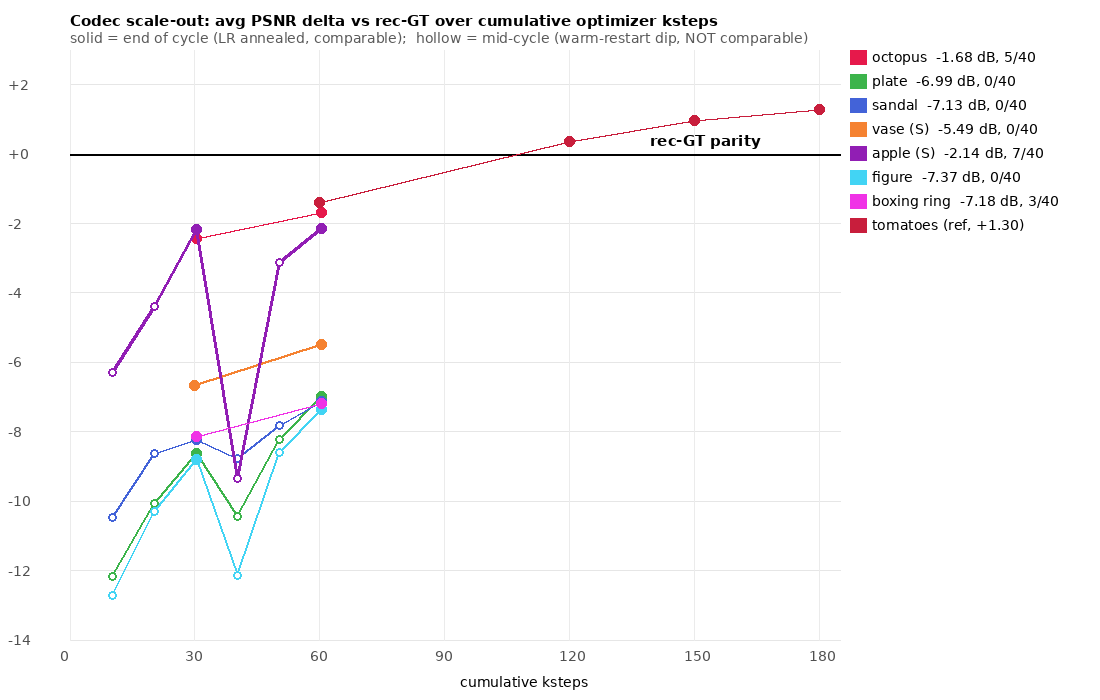
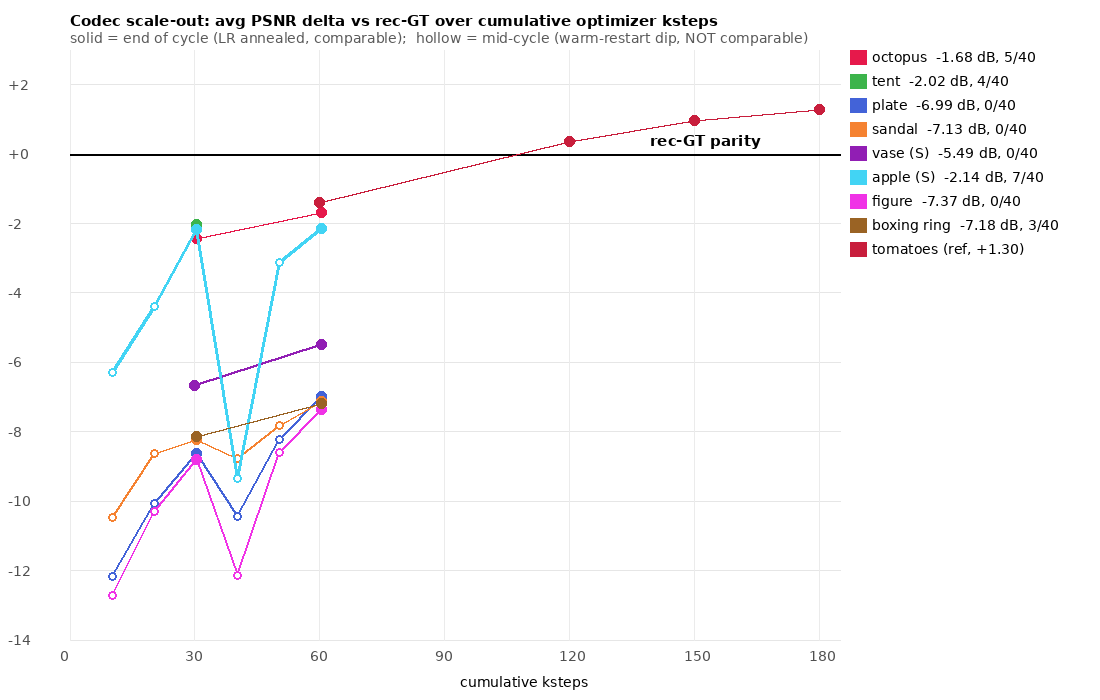
docs(PROGRESS): scene_0223 c1 -2.02 (best c1); khan-01 5h cycles

diff --git a/PROGRESS.md b/PROGRESS.md
@@ -2513,3 +2513,10 @@ debian13 (c7aee4b: venv/cache/lib path/arch-from-torch). Chains launched on the 
 scene_0031 c1 31375607 → 08 → c2 31375609 → 10 (firefoot-01), scene_0223 c1 31375611 → 12 →
 c2 31375616 → 17 (khan-01, sm_120 — flash_attn works). Slipper c1 31374518 (4×A40) running.
 Stale held 8-GPU chains for 0031/0223 (31304927–34, 31304935–42) still queued-held; cancel.
+
+## 2026-08-25: scene_0223 c1 −2.02 (best c1 in the campaign) — khan-01 runs a cycle in 5 h
+scene_0223 c1 (31375611, khan-01 RTX Pro 6000 ×8, 657 s/epoch ≈ 3.4× A40): rand −1.90 (1/24) /
+close −0.21 (3/8) / far −4.19 (0/8) = **−2.02 avg, 4/40** after one cycle — better than octopus
+c1 (−2.44) with a HIGH rec-GT bar (43.8/38.9/46.5), i.e. the model's absolute PSNR (41.9/
+38.7/42.4) is the highest seen; far-range is the whole deficit. c2 31375616 seeded from c1
+ep27, running on khan-01. scene_0031 (firefoot-01) at ep16/27, 1118 s/epoch.
